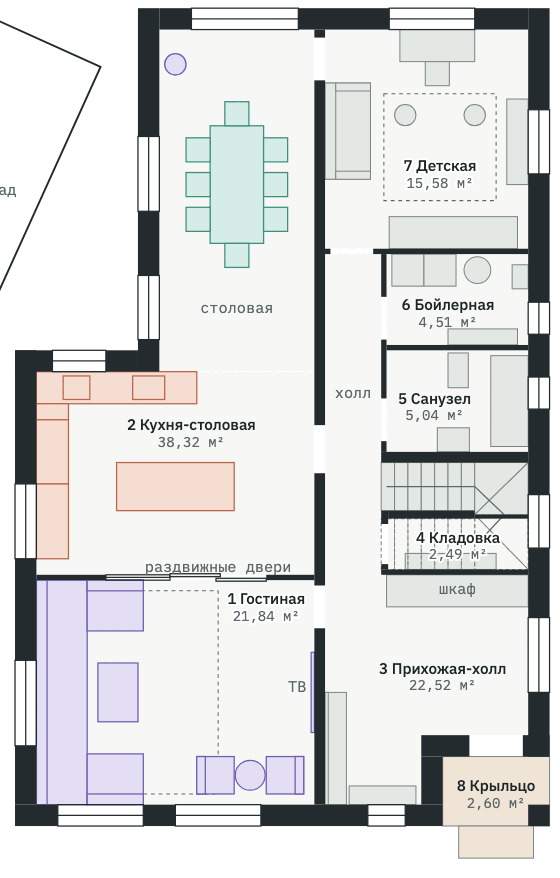
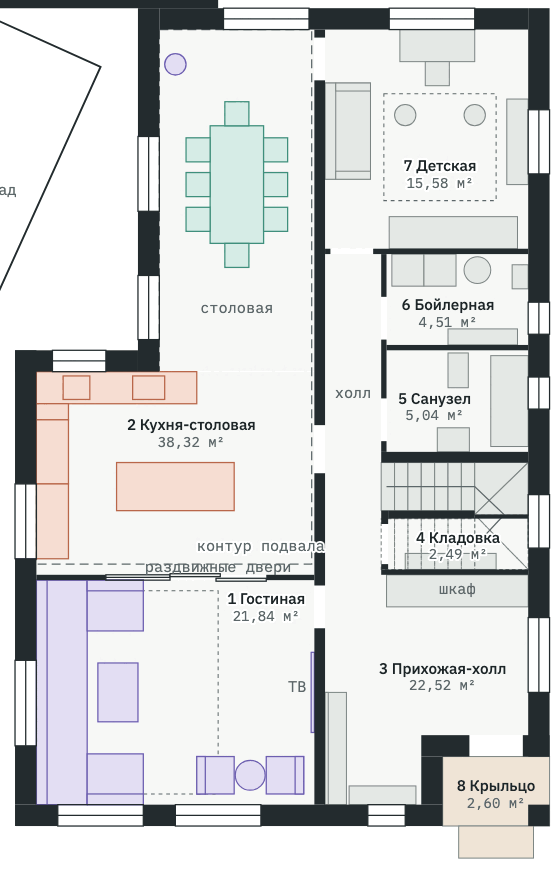
Variant 5: basement under the kitchen and dining room, entered from the garden
- L-shaped basement, 36.8 m2 inside, 2.4 m clear, floor at -2.750;
  400 mm walls flush with the house walls, 300 mm under the bearing wall.
- Stair pit along the back wall left of the garden door: 12 steps of
  200 x 270, landing and a steel door, 1 m railing, entered from the
  shed side; lawn and ground now have an opening over it.
- Garden door moved right and narrowed to 1.6 m, its pad moved too;
  sewer to the septic tank reroutes around the pit.
- Shelving, lights, 'Basement' and 'Pit' views, basement on the
  foundation plan and plan 1, concrete volumes and notes; thumbnail,
  index card and README updated.

Changed region(s): [[0.0, 0.0, 0.425, 0.0615], [0.3339, 0.615, 0.5768, 0.6458], [0.5161, 0.0, 0.5768, 0.0615]]

diff --git a/dom/v5-dvuskatnaya.html b/dom/v5-dvuskatnaya.html
@@ -85,7 +85,7 @@ tr.out td{color:var(--muted)}
 <svg width="0" height="0" style="position:absolute" aria-hidden="true" focusable="false"><defs><pattern id="hatch" width="9" height="9" patternUnits="userSpaceOnUse" patternTransform="rotate(35)"><path d="M0 0 L0 9 M0 0 L9 0" stroke="var(--f-stroke)" stroke-width="1"/></pattern></defs></svg>
 <header>
 <h1>Дом · вариант 5, вход справа, гостиная и кухня слева, двускатная крыша</h1>
-<div class="specs"><span>общая <b>≈ 222,7 м²</b></span><span>1 этаж <b>110,3 м²</b></span><span>2 этаж <b>112,4 м²</b></span><span>сзади <b>7,7 × 6,4 м</b></span><span>спереди <b>10,0 × 8,9 м</b></span><span>склад <b>5,5 × 5,6 м</b></span><span>длина <b>15,3 м</b></span><span>фундамент <b>плита 250 мм с рёбрами</b></span><span>крыша <b>двускатная, 30°</b>, конёк <b>≈ 8,2 м</b> от земли</span><span>2 этаж у наружных стен <b>1,5–2,3 м</b></span></div>
+<div class="specs"><span>общая <b>≈ 222,7 м²</b></span><span>1 этаж <b>110,3 м²</b></span><span>2 этаж <b>112,4 м²</b></span><span>подвал <b>36,8 м²</b></span><span>сзади <b>7,7 × 6,4 м</b></span><span>спереди <b>10,0 × 8,9 м</b></span><span>склад <b>5,5 × 5,6 м</b></span><span>длина <b>15,3 м</b></span><span>фундамент <b>плита 250 мм с рёбрами</b></span><span>крыша <b>двускатная, 30°</b>, конёк <b>≈ 8,2 м</b> от земли</span><span>2 этаж у наружных стен <b>1,5–2,3 м</b></span></div>
 </header>
 <div class="row">
 <div class="bar big" id="floors"><span class="lbl">Показать</span>
@@ -117,7 +117,7 @@ tr.out td{color:var(--muted)}
 <svg id="fplan" viewBox="-90 -110 850 1000" width="100%" role="img" style="min-width:540px"><title>План фундамента</title><desc>Монолитная плита 250 мм по контуру дома: сзади 7,7 м, спереди 10,0 м, длина 15,3 м, в правом переднем углу вырез под крыльцо. Рёбра под плитой показаны пунктиром, выпуски коммуникаций — кружками с кодами К, В, Э, З, выходы отопления — красными квадратиками О, трубы под плитой — цветным пунктиром, отдельные плиты крыльца и площадки у двери в сад, привязка к границе участков и переднему забору. Размеры в мм.</desc></svg>
 <svg id="fsec" viewBox="0 0 680 300" width="100%" role="img" style="min-width:540px;margin-top:6px"><title>Край плиты в разрезе</title><desc>Разрез по наружной стене: стена 400, плита 250, ребро 400 × 400, ЭППС 100, подушка 300, утеплённая отмостка, отметки от чистого пола.</desc></svg>
 </div>
-<svg id="plan1" viewBox="0 0 680 760" width="100%" role="img" style="min-width:540px" hidden><title>План первого этажа</title><desc>Первый этаж, вариант 5: спереди дом шириной 10 м. Вход справа: крыльцо в правом переднем углу под вторым этажом, за ним большая прихожая-холл. Слева от фасада назад гостиная, за перегородкой с раздвижными стеклянными дверями кухня с островом и в узкой задней части столовая с выходом в сад. Справа прихожая-холл без перегородок до лестницы, со шкафом, вешалкой и обувницей, дальше лестница с кладовкой, санузел, бойлерная и детская. Размеры в мм.</desc></svg>
+<svg id="plan1" viewBox="0 -40 680 800" width="100%" role="img" style="min-width:540px" hidden><title>План первого этажа</title><desc>Первый этаж, вариант 5: спереди дом шириной 10 м. Вход справа: крыльцо в правом переднем углу под вторым этажом, за ним большая прихожая-холл. Слева от фасада назад гостиная, за перегородкой с раздвижными стеклянными дверями кухня с островом и в узкой задней части столовая с выходом в сад. Пунктиром показан подвал под кухней и столовой, за задней стеной приямок со ступенями — вход в подвал. Справа прихожая-холл без перегородок до лестницы, со шкафом, вешалкой и обувницей, дальше лестница с кладовкой, санузел, бойлерная и детская. Размеры в мм.</desc></svg>
 <svg id="plan2" viewBox="0 0 680 760" width="100%" role="img" style="min-width:540px"><title>План второго этажа</title><desc>Второй этаж, вариант 5, полумансардный под двускатной крышей: мастер-спальня, гардеробная и санузел в задней части, Г-образная спальня, большой общий санузел, коридор с лестницей справа и две спальни спереди: слева на месте кабинета и балкона, справа. Пунктиром показаны окна в крыше. Размеры в мм.</desc></svg>
 </div>
 <div class="card">
@@ -129,7 +129,9 @@ tr.out td{color:var(--muted)}
 <tr><td>Р2</td><td>Ребро под несущей стеной вдоль дома 300 × 300, 14,5 м</td><td>1,3 м³</td></tr>
 <tr class="sum"><td></td><td>Бетон под дом</td><td>43,1 м³</td></tr>
 <tr class="out"><td>2</td><td>Плита крыльца 200 мм, через шов</td><td>0,6 м³</td></tr>
-<tr class="out"><td>3</td><td>Площадка у двери в сад 200 мм</td><td>0,6 м³</td></tr>
+<tr class="out"><td>3</td><td>Площадка у двери в сад 200 мм</td><td>0,4 м³</td></tr>
+<tr><td>4</td><td>Подвал: стены 400 мм и плита пола 200 мм</td><td>38,4 м³</td></tr>
+<tr><td>5</td><td>Приямок со ступенями</td><td>≈ 10 м³</td></tr>
 </table>
 <table id="tu" style="margin-top:14px"><caption>Выпуски из плиты · привязки в м от наружных граней</caption></table>
 <p class="hint" style="margin-top:10px">Серый пунктир на плане — рёбра под плитой, цветной — трубы в подушке под плитой, кружки — выпуски. Оранжевым канализация, синим вода, красным отопление, чёрным кабель, оливковым заземление. Отопление квадратиками: его трубы лежат не в бетоне, а поверх плиты в стяжке. Отметки в метрах от чистого пола 1 этажа. Сечения ориентировочные, армирование и точные размеры считает конструктор по геологии участка.</p>
@@ -174,7 +176,8 @@ tr.out td{color:var(--muted)}
 <li><b>Замеры с эскиза.</b> Пунктир на эскизе я понял как границу между участками …299 и …300. Склад 5,5 × 5,6 м. Его задний угол со стороны дома стоит в 10,4 м от границы, от этого места вдоль границы до переднего забора 18,7 м. От заднего угла участка вдоль левого забора до склада 10,6 м. По модели от переднего угла склада до границы выходит 12,7 м и до переднего забора 13,6 м, у вас 12,8 и 13,5. Расхождение 10 см, это в пределах точности рулетки. Верхняя строчка на фото обрезана, поэтому размер «до забора у эл. столба» я не увидел.</li>
 <li><b>Участки.</b> Новый дом стоит на участке …299. Правая стена в 2 м от границы с …300, это обязательный отступ. Фасад в 4,5 м от переднего забора. Выступ смотрит в дальний конец участка, вход к воротам. На участке …300 уже стоит двухэтажный дом 11 × 10 м в 2 м от границы и в 6 м от переднего забора. Я нарисовал его по фото. Крыша двускатная несимметричная, конёк идёт от фасада к заднему забору и сдвинут вправо, длинный пологий скат смотрит на новый дом. Карниз примерно на 5 м, конёк на 7,6 м, это оценка по фото. Считаю, что фасад с гаражом смотрит на передний забор. Пристройки сзади не рисовал. Снег с длинного ската будет сходить в двухметровую полосу у границы, так что на этот скат стоит поставить снегозадержатели. Между домами получается 4 м. Это меньше обычного противопожарного разрыва между домами на соседних участках (от 6 м), стоит проверить, как это решается для ваших двух участков. По замерам левый забор проходит на 0,6–0,9 м дальше, чем по кадастровым цифрам, поэтому торец с воротами на плане вышел ≈8,8 м вместо 8. Его лучше перемерить. Забор высотой 2 м идёт по всему внешнему периметру обоих участков, между ними забора нет. Ворота 4,5 м без верхней балки и калитка стоят в нижнем левом торце, от калитки к крыльцу ведёт дорожка.</li>
 <li><b>Фундамент — монолитная плита 250 мм</b> ровно по контуру дома, 135,7 м². Снизу рёбра: по контуру 400 × 400 мм под наружными стенами и одно ребро 300 × 300 мм под несущей стеной вдоль дома, 13,2 м. Остальные стены первого этажа — перегородки, отдельные рёбра под ними не нужны. Верх плиты на −0,100, на стяжку и пол остаётся 100 мм. Низ плиты на уровне земли, низ рёбер на −0,750. Под плитой ЭППС 100 мм и песчано-щебёночная подушка 300 мм, торец плиты утеплён, вокруг утеплённая отмостка. Бетона под дом уходит ≈43,1 м³. Крыльцо в правом переднем углу и площадка у двери в сад стоят на отдельных плитах 200 мм через шов, под угловой стойкой крыльца отдельная опора. Сечения ориентировочные: армирование и точные размеры считает конструктор по геологии участка.</li>
-<li><b>Выпуски коммуникаций из плиты.</b> Всё, что должно торчать из плиты после заливки, показано в режиме «Только фундамент» и на плане фундамента, коды и привязки — в таблице рядом. Канализация: К1 мойка на кухне, К2 стояк общего санузла второго этажа в кухонной колонне, К3 унитаз, К4 стояк мастер-санузла второго этажа, К5 раковина, К6 трап душа, К7 стиральная и сушильная машины, К8 трап в бойлерной. Трубы 110 и 50 мм прокладывают в подушке под утеплителем с уклоном 2 % для 110 и 3 % для 50 к общему выпуску КВ через заднюю стену, оттуда труба 110 идёт ≈ 10 м к септику за складом. Через рёбра трубы идут в гильзах, выпуски выводят на 150–200 мм выше плиты и заглушают. Септик квадратный, 2 × 2 м, стоит вплотную за складом у левого забора, стороны параллельны складу. До угла дома от него ≈ 3,8 м: для герметичного септика этого хватает, а если он с фильтрацией в грунт, обычно требуют от 5 м — это стоит уточнить у поставщика. В бойлерной у правой стены ввод воды В1 в гильзе ниже промерзания, вода приходит из-за дома на …300 — за его задней стеной и по полосе между домом и границей, гильза под кабель Э1 и выпуск заземления З1 от контура. Кабель приходит от щита учёта на переднем заборе у границы участков: в трубе ПНД на глубине 0,8 м под площадкой для машины и дальше по полосе между домом и границей к гильзе Э1, ≈ 16 м. С водой он пересекается на разной глубине. Точку, где вода подключается за домом на …300, надо уточнить до закладки. Газ к котлу заводят через стену выше земли. Отопление показано красным: коллектор ОК у котла, трубы PEX 16 к радиаторам под окнами первого этажа О1–О6, полотенцесушитель О7 и стояк на второй этаж О8. Эти трубы кладут не в бетон, а поверх плиты в стяжку, через несущую стену — только в дверных проёмах. Но выходы из пола надо знать до стяжки. Разводка ориентировочная, под радиаторы; если захотите тёплый пол, стяжка и утеплитель будут другими. Места выпусков сверить с сантехником: точность ±20 мм.</li>
+<li><b>Подвал под кухней и столовой</b> с входом из сада. Он повторяет контур кухни и столовой, внутри 36,8 м²: 2,85 × 10 м вдоль несущей стены и 2,3 × 3,6 м под кухней у склада. Высота 2,4 м, пол на −2,750 от пола первого этажа, это 2,4 м ниже земли. Стены монолитные 400 мм заподлицо с наружными стенами дома, справа 300 мм прямо под несущей стеной, пол — плита 200 мм. Снаружи обмазочная гидроизоляция и ЭППС, по периметру дренаж. Плита 250 над подвалом становится перекрытием, её армируют как перекрытие. Вход — приямок вдоль задней стены слева от двери в сад: 12 ступеней по 200 мм с проступью 270, внизу площадка перед металлической дверью 0,8 м. Спускаются со стороны склада. Вокруг приямка ограждение 1 м, над ним нужен навес, в полу трап — воду из него отводят в дренажный колодец или насосом. Чтобы приямок не мешал выходу в сад, дверь в сад сдвинута вправо и стала 1,6 м, площадка перед ней тоже. Канализация от кухни идёт под потолком подвала, труба к септику обходит приямок. Внутри вдоль стен стеллажи для заготовок, свет и приточно-вытяжная вентиляция через стену. Бетона на подвал ≈ 38 м³ и на приямок ≈ 10 м³, котлован ≈ 200–250 м³ грунта. Главное — грунтовые воды: до решения нужна геология или шурф на 3 м. Если вода выше дна подвала, его делают в полной гидроизоляции или от него отказываются.</li>
+<li><b>Выпуски коммуникаций из плиты.</b> Всё, что должно торчать из плиты после заливки, показано в режиме «Только фундамент» и на плане фундамента, коды и привязки — в таблице рядом. Канализация: К1 мойка на кухне, К2 стояк общего санузла второго этажа в кухонной колонне, К3 унитаз, К4 стояк мастер-санузла второго этажа, К5 раковина, К6 трап душа, К7 стиральная и сушильная машины, К8 трап в бойлерной. Трубы 110 и 50 мм прокладывают в подушке под утеплителем с уклоном 2 % для 110 и 3 % для 50 к общему выпуску КВ через заднюю стену, оттуда труба 110 идёт ≈ 11 м к септику за складом, в обход приямка. Через рёбра трубы идут в гильзах, выпуски выводят на 150–200 мм выше плиты и заглушают. Септик квадратный, 2 × 2 м, стоит вплотную за складом у левого забора, стороны параллельны складу. До угла дома от него ≈ 3,8 м: для герметичного септика этого хватает, а если он с фильтрацией в грунт, обычно требуют от 5 м — это стоит уточнить у поставщика. В бойлерной у правой стены ввод воды В1 в гильзе ниже промерзания, вода приходит из-за дома на …300 — за его задней стеной и по полосе между домом и границей, гильза под кабель Э1 и выпуск заземления З1 от контура. Кабель приходит от щита учёта на переднем заборе у границы участков: в трубе ПНД на глубине 0,8 м под площадкой для машины и дальше по полосе между домом и границей к гильзе Э1, ≈ 16 м. С водой он пересекается на разной глубине. Точку, где вода подключается за домом на …300, надо уточнить до закладки. Газ к котлу заводят через стену выше земли. Отопление показано красным: коллектор ОК у котла, трубы PEX 16 к радиаторам под окнами первого этажа О1–О6, полотенцесушитель О7 и стояк на второй этаж О8. Эти трубы кладут не в бетон, а поверх плиты в стяжку, через несущую стену — только в дверных проёмах. Но выходы из пола надо знать до стяжки. Разводка ориентировочная, под радиаторы; если захотите тёплый пол, стяжка и утеплитель будут другими. Места выпусков сверить с сантехником: точность ±20 мм.</li>
 <li><b>Mercedes Atego с кузовом 7 м</b> (вся машина около 9,3 м) заезжает вдоль переднего забора и проезжает вперёд до границы второго участка. До забора 0,5 м, до фасада около 1,5 м, проход к крыльцу остаётся. Чтобы грузовик заезжал прямо вдоль забора, ворота 4,5 м сдвинуты в самый угол торца, калитка дальше по торцу. Это работает, если с улицы он подъезжает примерно вдоль переднего забора. Площадка засыпана асфальтной крошкой. Кузов высотой около 3,3 м будет стоять напротив окон гостиной и тамбура на фасаде и затенять его.</li>
 <li><b>Склад 5,5 × 5,6 м</b> стоит стороной 5,6 м вплотную к левому забору, под углом ≈24° к дому. Склад обшит OSB. Дверь пластиковая прозрачная, у склада два окна 1 × 1 м: рядом с дверью слева и справа за углом. Через 1 м после склада вдоль забора в сторону ворот стоит вагончик-бытовка 8 × 2,4 м на блоках: обшит серым профлистом, по контуру синий профиль, крыша плоская чёрная. Дверь справа на длинной стороне к двору, окна только в торцах. Между углом склада и задней частью дома проход 0,7 м, от передней широкой части до склада тоже 0,7 м. Склад стоит на стальных сваях с зазором 40 см от земли. Корпус высотой 3 м со стороны дома и 2 м у забора, крыша со скатом к забору. Вход через обычную пластиковую дверь с крыльцом из трёх ступенек в торце со стороны входа в дом.</li>
 <li><b>Вариант 5.</b> Форма дома как в четвёртом: сзади 7,7 м по линии выступа, с 6,4 м от задней стены одна ступенька и дальше до фасада 10 м, до склада везде 0,7 м. Вход справа: крыльцо 2,0 × 1,3 м утоплено в правый передний угол под второй этаж, на углу стойка. Входная дверь смотрит на фасад, прямо напротив ступенек крыльца, и ведёт сразу в большую прихожую-холл. Слева вся ширина от фасада до сада отдана дневной зоне: спереди гостиная, за ней кухня, в конце дома, в узкой части шириной 2,9 м, столовая с выходом в сад. Справа прихожая-холл с лестницей, санузел, бойлерная и детская. Крыша двускатная с коньком над несущей стеной, второй этаж полумансардный.</li>
@@ -199,7 +202,7 @@ window.HOUSE={FL2:3060,H1:2800,H2:2700,
 walls1:[
  {o:'v',a0:-400,a1:6400,c0:300,c1:700,ops:[{f:2000,t:3400,s:900,h:2700,k:'w'},{f:4600,t:5800,s:800,h:2600,k:'w'}]},
  {o:'h',a0:-2000,a1:300,c0:6000,c1:6400,ops:[{f:-1300,t:-300,s:1050,h:2300,k:'w'}]},
- {o:'h',a0:700,a1:7600,c0:-400,c1:0,ops:[{f:1300,t:3300,s:0,h:2400,k:'g'},{f:5000,t:6600,s:800,h:2600,k:'w'}]},
+ {o:'h',a0:700,a1:7600,c0:-400,c1:0,ops:[{f:1900,t:3500,s:0,h:2400,k:'g'},{f:5000,t:6600,s:800,h:2600,k:'w'}]},
  {o:'v',a0:-400,a1:13600,c0:7600,c1:8000,ops:[{f:1500,t:2700,s:800,h:2600,k:'w'},{f:5100,t:5700,s:1200,h:2000,k:'w'},{f:6500,t:7100,s:1400,h:2100,k:'w'},{f:8700,t:9700,s:1600,h:2800,k:'w'},{f:11000,t:12400,s:800,h:2600,k:'w'}]},
  {o:'v',a0:14500,a1:14900,c0:7600,c1:8000,ops:[]},
  {o:'v',a0:6000,a1:14500,c0:-2000,c1:-1600,ops:[{f:8500,t:9900,s:1050,h:2300,k:'w'},{f:11800,t:13400,s:900,h:2600,k:'w'}]},
@@ -283,7 +286,11 @@ ROOF:{ridge:3700,knee:2100}
   ribs:[[300,-400,7700,400,400],[7600,0,400,13600,400],[6000,13200,2000,400,400],[5600,13600,400,1300,400],
    [-2000,14500,7600,400,400],[-2000,6000,400,8500,400],[-1600,6000,1900,400,400],[300,0,400,6400,400],
    [3550,0,300,14500,300]],
-  porch:[[6000,13620,2000,1280,200],[6300,14900,1400,600,100],[1100,-1600,2400,1180,200]],
+  porch:[[6000,13620,2000,1280,200],[6300,14900,1400,600,100],[1850,-1600,1750,1180,200]],
+  /* подвал под кухней и столовой: пол −2,750, стены 400 по контуру дома (справа 300 под несущей стеной); приямок вдоль задней стены слева от двери в сад */
+  base:{floor:-2750,door:[750,1550],area:36.78,
+   out:[[300,-400],[3850,-400],[3850,10300],[-2000,10300],[-2000,6000],[300,6000]],inn:[[700,0],[3550,0],[3550,10000],[-1600,10000],[-1600,6400],[700,6400]],
+   pit:{x0:-2470,x1:1800,land:700,out:[[-2470,-1700],[1800,-1700],[1800,-400],[-2470,-400]],inn:[[-2470,-1500],[1600,-1500],[1600,-600],[-2470,-600]]}},
   /* выпуски из плиты: [код, вид, x, y, Ø мм, что, подпись: r/l/u] — к: канализация, в: вода, э: кабель, з: заземление */
   util:[['К1','k',-850,6700,50,'Мойка и посудомойка на кухне','u'],['К2','k',-1450,8350,110,'Стояк общего санузла 2 этажа, в кухонной колонне','r'],
    ['К3','k',6290,6250,110,'Унитаз, санузел 1 этажа','l'],['К4','k',6700,6100,110,'Стояк мастер-санузла 2 этажа, в коробе','u'],
@@ -299,7 +306,7 @@ ROOF:{ridge:3700,knee:2100}
     ['О7',5050,7000,16,'Полотенцесушитель в санузле','u'],['О8',5050,5800,20,'Стояк отопления на 2 этаж, в гардеробную','r'],['ОК',6800,5450,25,'Коллектор отопления у котла','u']],
    lines:[[[6800,5450],[5800,5450],[5800,300]],[[5800,550],[800,550],[800,5200]],[[6800,5450],[4400,5450],[4400,10800],[3000,10800],[3000,14350],[-400,14350]],
     [[4400,11700],[7450,11700]],[[4400,7000],[5050,7000]],[[6800,5450],[6800,5800],[5050,5800]]]},
-  exit:[5200,-400],sept:SEP,septPts:SEPP,outSewer:[[5200,-400],[5200,-1500],SEP],waterIn:[[16500,1800],[9000,1800],[9000,5450]],
+  exit:[5200,-400],sept:SEP,septPts:SEPP,outSewer:[[5200,-400],[5200,-2300],SEP],waterIn:[[16500,1800],[9000,1800],[9000,5450]],
   /* кабель от щита учёта на переднем заборе у границы участков, в трубе ПНД под площадкой и вдоль правой стены */
   cableIn:[[9700,19250],[9400,18950],[9400,5100]],meter:[9700,19250],
   feeds:[['w',[9000,5450],[7450,5450],-1200],['e',[9400,5100],[7450,5100],-800],['z',[8600,4750],[7450,4750],-700]]};
@@ -341,7 +348,7 @@ function drawPlan(svg,P){
  const ln={stroke:'var(--muted)','stroke-width':0.6};
  function dimH(x1,x2,py,s,ly){el('line',Object.assign({x1:X(x1),x2:X(x2),y1:py,y2:py},ln));[x1,x2].forEach(x=>el('line',Object.assign({x1:X(x),x2:X(x),y1:py-4,y2:py+4},ln)));T((X(x1)+X(x2))/2,ly,s,'ts');}
  function dimV(y1,y2,px,s){el('line',Object.assign({x1:px,x2:px,y1:Y(y1),y2:Y(y2)},ln));[y1,y2].forEach(y=>el('line',Object.assign({x1:px-4,x2:px+4,y1:Y(y),y2:Y(y)},ln)));T(px+7,(Y(y1)+Y(y2))/2+4,s,'ts','start');}
- dimH(-2000,300,22,'2300',16);dimH(300,8000,22,'7700',16);
+ const dy=P.dimY||0;dimH(-2000,300,22+dy,'2300',16+dy);dimH(300,8000,22+dy,'7700',16+dy);
  dimV(-400,6000,515,'6400');dimV(6000,14900,515,'8900');dimV(-400,14900,575,'15300');
  dimH(-2000,8000,735,'10000',750);
 }
@@ -353,7 +360,9 @@ const stairTreads=(g,R,solid2)=>{
 const winders=(el,PT,g,up)=>{const C=[6600,9075];[[[6600,8100],[7600,8100]],[[7600,8100],[7600,9075]],[[7600,9075],[7600,10100]],[[7600,10100],[6600,10100]]].forEach((w,i)=>el('polygon',Object.assign({points:PT([C,w[0],w[1]])},i>1&&up?up:{}),i>1&&up?null:g));};
 drawPlan(document.getElementById('plan1'),{
  walls:HS.walls1,floors:HS.floors1,
- polys:[{pts:HS.SKLAD.pts,a:{fill:'url(#hatch)',stroke:'var(--wall)','stroke-width':1.5}}],
+ polys:[{pts:HS.SKLAD.pts,a:{fill:'url(#hatch)',stroke:'var(--wall)','stroke-width':1.5}},{pts:HS.FUND.base.inn,a:{fill:'none',stroke:'var(--muted)','stroke-width':1,'stroke-dasharray':'7 4'}},
+  {pts:HS.FUND.base.pit.out,a:{fill:'var(--wall)'}},{pts:HS.FUND.base.pit.inn,a:{fill:'var(--floor)'}}],
+ dimY:-50,rails:Array.from({length:12},(_,i)=>{const x=700-270*i;return [x,-1500,x,-600];}),
  deck:[[6000,13600,2000,1300],[6300,14900,1400,600]],
  dash:[[-1500,10500,3300,3800],[4900,1200,2100,2000]],
  items:[
@@ -373,7 +382,7 @@ drawPlan(document.getElementById('plan1'),{
  labels:[['1 Гостиная','21,84',2700,10750,'middle',1],['2 Кухня-столовая','38,32',1300,7500],['3 Прихожая-холл','22,52',6000,12050],
   ['4 Кладовка','2,49',6290,9600,'middle',1],['5 Санузел','5,04',5850,7000],['6 Бойлерная','4,51',6100,5250],['7 Детская','15,58',5950,2650,'middle',1],
   ['8 Крыльцо','2,60',7000,14250]],
- notes:[['склад',-2400,3100,'middle'],['раздвижные двери',1800,10140,'middle'],['холл',4325,6900,'middle'],['шкаф',6275,10560,'middle'],['ТВ',3450,12400,'end'],['столовая',2150,5300,'middle']]
+ notes:[['склад',-2400,3100,'middle'],['приямок, вход в подвал',-400,-990,'middle',1],['контур подвала',2600,9750,'middle',1],['раздвижные двери',1800,10140,'middle'],['холл',4325,6900,'middle'],['шкаф',6275,10560,'middle'],['ТВ',3450,12400,'end'],['столовая',2150,5300,'middle']]
 });
 (function site(){
  /* план участков в ориентации эскиза: задний забор сверху, граница с …300 справа от дома */
@@ -467,7 +476,7 @@ drawPlan(document.getElementById('plan1'),{
   ['Участки',[['Задний забор …299',f1(XB-PL.P1[0]),'расчёт'],['Левый забор',f1(10600+LF),'расчёт'],['Торец с воротами',f1(hy(PL.P4,PL.P5)),'перемерить'],
    ['Передний забор …299',f1(hy(PL.D2,PL.P4)),'кадастр'],['Граница …299 / …300',f1(YF-PL.P1[1]),'расчёт'],['Задний забор …300',f1(hy(PL.D1,PL.P2)),'кадастр'],
    ['Правый забор …300',f1(hy(PL.P2,PL.P3)),'расчёт'],['Передний забор …300',f1(hy(PL.P3,PL.D2)),'кадастр']]],
-  ['Постройки',[['Новый дом','10,0 × 15,3','проект'],['Задняя часть дома','7,7 × 6,4','проект'],['Площадка у двери в сад','2,4 × 1,2','проект'],['Крыльцо','2,0 × 1,3','проект'],
+  ['Постройки',[['Новый дом','10,0 × 15,3','проект'],['Задняя часть дома','7,7 × 6,4','проект'],['Площадка у двери в сад','1,75 × 1,2','проект'],['Приямок входа в подвал','4,3 × 1,3','проект'],['Крыльцо','2,0 × 1,3','проект'],
    ['Склад',f1(K.W)+' × '+f1(K.L),'замер'],['Вагончик','8,0 × 2,4','проект'],['Дом на …300, 2 этажа','11 × 10','замер']]],
   ['Новый дом — привязка',[['До границы с …300',f1(XB-8000),'от вас'],['До переднего забора',f1(YF-14900),'проект'],['До заднего забора',f1(-400-PL.P1[1]),'расчёт'],
    ['До дома на …300',f1(O[0]-8000),'расчёт'],['Септик 2 × 2 м — угол дома',f1(Math.min(...FD.septPts.map(q=>Math.hypot(q[0]-300,q[1]+400)))),'расчёт'],['Септик — склад','вплотную','от вас'],['Задняя часть — угол склада',f1(300-TE[0]),'расчёт'],['Широкая часть — склад','0,7','от вас']]],
@@ -518,8 +527,12 @@ drawPlan(document.getElementById('plan2'),{
  T(X(4000),Y(PL.YF)-7,'передний забор','ts');
  /* склад — для привязки септика */
  el('polygon',{points:PT(HS.SKLAD.pts),fill:'url(#hatch)',stroke:'var(--wall)','stroke-width':1.2});T(X(-4300),Y(1900),'склад','ts halo');
+ /* подвал: стены кольцом, пол ниже; приямок со ступенями */
+ {const Bs=F.base;el('polygon',{points:PT(Bs.out),fill:'var(--rib)',stroke:'var(--wall)','stroke-width':1});el('polygon',{points:PT(Bs.inn),fill:'var(--sand)',stroke:'var(--wall)','stroke-width':1});
+  el('polygon',{points:PT(Bs.pit.out),fill:'var(--rib)',stroke:'var(--wall)','stroke-width':1});el('polygon',{points:PT(Bs.pit.inn),fill:'var(--sand)',stroke:'var(--wall)','stroke-width':1});
+  for(let i=0;i<12;i++){const x=700-270*i;el('line',{x1:X(x),x2:X(x),y1:Y(-1500),y2:Y(-600),stroke:'var(--wall)','stroke-width':0.6});}}
  /* плита, рёбра под ней пунктиром, отдельная плита крыльца */
- el('polygon',{points:PT(F.contour),fill:'var(--conc)',stroke:'var(--wall)','stroke-width':1.6});
+ el('polygon',{points:PT(F.contour),fill:'var(--conc)',stroke:'var(--wall)','stroke-width':1.6,'fill-opacity':0.82});
  F.ribs.forEach(r=>R(r[0],r[1],r[2],r[3],{fill:'var(--rib)',stroke:'var(--wall)','stroke-width':0.7,'stroke-dasharray':'4 2'}));
  F.porch.forEach(r=>R(r[0],r[1],r[2],r[3],{fill:'var(--conc)',stroke:'var(--wall)','stroke-width':1}));
  /* коммуникации: трубы под плитой пунктиром, выпуски кружками с кодами */
@@ -541,14 +554,14 @@ drawPlan(document.getElementById('plan2'),{
  inL('o',()=>F.heat.pts.forEach(h=>{const px=X(h[1]),py=Y(h[2]);el('rect',{x:px-3.5,y:py-3.5,width:7,height:7,fill:UC.o,stroke:'var(--surface)','stroke-width':1});
   const o=h[5]==='l'?[-7,4,'end']:h[5]==='u'?[0,-8,'middle']:[7,4,'start'];T(px+o[0],py+o[1],h[0],'ts halo',o[2],UC.o).style.fontWeight='600';}));
  {const tb=document.getElementById('tu'),f1=v=>(v/1000).toFixed(2).replace('.',','),side=x=>x<3700?'от левой '+f1(x-(-2000)):'от правой '+f1(8000-x);
-  F.util.concat([['КВ','k',F.exit[0],-400,110,'Выпуск канализации через заднюю стену в гильзе, дальше ≈ '+(1.1+Math.hypot(F.sept[0]-5200,F.sept[1]+1500)/1000).toFixed(1).replace('.',',')+' м к септику']]).forEach(u=>{const tr=tb.insertRow();
+  F.util.concat([['КВ','k',F.exit[0],-400,110,'Выпуск канализации через заднюю стену в гильзе, дальше ≈ '+(1.9+Math.hypot(F.sept[0]-5200,F.sept[1]+2300)/1000).toFixed(1).replace('.',',')+' м к септику']]).forEach(u=>{const tr=tb.insertRow();
    tr.insertCell().textContent=u[0];tr.cells[0].style.color=UC[u[1]]==='var(--ink)'?'':UC[u[1]];
    tr.insertCell().textContent=u[5]+' · '+side(u[2])+(u[0]==='КВ'?'':', от задней '+f1(u[3]+400));tr.insertCell().textContent=u[4]?'Ø'+u[4]:'—';});
   F.heat.pts.forEach(h=>{const tr=tb.insertRow();tr.insertCell().textContent=h[0];tr.cells[0].style.color=UC.o;
    tr.insertCell().textContent=h[4]+', в стяжке · '+side(h[1])+', от задней '+f1(h[2]+400);tr.insertCell().textContent='Ø'+h[3];});}
  T(X(5700),Y(9500),'Монолитная плита 250 мм','rn');T(X(5700),Y(9500)+14,'135,7 м² · верх −0,100','ra');
  T(X(7450),Y(2000)+4,'Р1 400 × 400','ts','end');T(X(3500),Y(3000),'Р2 300 × 300','ts','end');
- T(X(7000),Y(14150),'Крыльцо','rn');T(X(2300),Y(-1010),'Площадка в сад','rn');T(X(2300),Y(-1010)+13,'плита 200','ra');T(X(7000),Y(14150)+13,'плита 200','ra');
+ T(X(7000),Y(14150),'Крыльцо','rn');T(X(2725),Y(-1010),'Площадка в сад','rn');T(X(2725),Y(-1010)+13,'плита 200','ra');T(X(-430),Y(-1050)+4,'приямок, вход в подвал','ts halo');T(X(1300),Y(9300),'Подвал 36,8 м² · пол −2,750','ts halo');T(X(7000),Y(14150)+13,'плита 200','ra');
  /* размеры */
  dH(-2000,300,-40,'2300');dH(300,8000,-40,'7700');
  const pb=Y(15500)+26;dH(-2000,6000,pb,'8000');dH(6000,8000,pb,'2000');dH(-2000,8000,pb+24,'10000');
@@ -593,9 +606,9 @@ drawPlan(document.getElementById('plan2'),{
 const HS=window.HOUSE;
 const msg=document.getElementById('msg');
 const state={floor:2,tab:'v3',view:'front',cut:false,roof:true,truck:true,lay:{k:true,w:true,o:true,e:true,z:true}};
-const VIEWS={1:[['all','Общий вид'],['top','Сверху'],['front','Со стороны входа'],['entry','Крыльцо'],['nw','Со стороны склада'],['site','Участок и склад'],['truck','Ворота и Атего'],['old','Дом на …300'],['dining','Столовая'],['living','Гостиная'],['kitchen','Кухня'],['corridor','Холл'],['stair','Лестница'],['stairtop','Лестница сверху'],['bedroom','Детская'],['priem','Прихожая'],['priemtop','Прихожая сверху'],['boiler','Бойлерная'],['glass','Перегородка']],
+const VIEWS={1:[['all','Общий вид'],['top','Сверху'],['front','Со стороны входа'],['entry','Крыльцо'],['nw','Со стороны склада'],['site','Участок и склад'],['truck','Ворота и Атего'],['old','Дом на …300'],['dining','Столовая'],['living','Гостиная'],['kitchen','Кухня'],['corridor','Холл'],['stair','Лестница'],['stairtop','Лестница сверху'],['bedroom','Детская'],['priem','Прихожая'],['priemtop','Прихожая сверху'],['boiler','Бойлерная'],['glass','Перегородка'],['pit','Вход в подвал'],['basement','Подвал']],
  2:[['front','Со стороны входа'],['entry','Крыльцо'],['nw','Со стороны склада'],['site','Участок и склад'],['truck','Ворота и Атего'],['old','Дом на …300'],['all2','Общий вид'],['top2','Сверху'],['master','Мастер-спальня'],['lounge','Мастер: зона отдыха'],['closet','Гардеробная'],['nwbed','Спальня у склада'],['swbed','Спальня справа спереди'],['corridor2','Коридор и лестница'],['cabinet','Спальня слева спереди']],
- 0:[['fall','Общий вид'],['ftop','Сверху'],['ffront','Со стороны входа'],['fnw','Со стороны склада'],['fbelow','Снизу, рёбра'],['futil','Выпуски крупно']]};
+ 0:[['fall','Общий вид'],['ftop','Сверху'],['ffront','Со стороны входа'],['fnw','Со стороны склада'],['fbelow','Снизу, рёбра'],['futil','Выпуски крупно'],['pit','Приямок'],['basement','Подвал внутри']]};
 const viewsBar=document.getElementById('views'),hint=document.getElementById('hint');
 let api=null;
 function renderViews(){
@@ -661,7 +674,8 @@ function B(x,y,w,d,z,h,c,parent,o){if(w<=0||d<=0||h<=0)return null;
  me.position.set(mm(x+w/2),mm(z+h/2),mm(y+d/2));me.castShadow=true;me.receiveShadow=true;(parent||G).add(me);return me;}
 function Gl(x,y,w,d,z,h,parent){const m=B(x,y,w,d,z,h,null,parent,glass);if(m)m.castShadow=false;return m;}
 function Cyl(x,y,r,z,h,c){const me=new THREE.Mesh(new THREE.CylinderGeometry(mm(r),mm(r),mm(h),24),mat(c));me.position.set(mm(x),mm(z+h/2),mm(y));me.castShadow=true;me.receiveShadow=true;G.add(me);return me;}
-const gnd=new THREE.Mesh(new THREE.PlaneGeometry(90,90),mat('#cfcabd'));gnd.rotation.x=-Math.PI/2;gnd.position.set(6.5,-0.351,6);gnd.receiveShadow=true;scene.add(gnd);
+const gnd=new THREE.Mesh((()=>{const sh=new THREE.Shape();[[-38.5,-39],[51.5,-39],[51.5,51],[-38.5,51]].forEach((q,i)=>i?sh.lineTo(q[0],-q[1]):sh.moveTo(q[0],-q[1]));
+ const pa=new THREE.Path();HS.FUND.base.pit.out.forEach((q,i)=>i?pa.lineTo(mm(q[0]),-mm(q[1])):pa.moveTo(mm(q[0]),-mm(q[1])));sh.holes.push(pa);const g=new THREE.ShapeGeometry(sh);g.rotateX(-Math.PI/2);return g;})(),mat('#cfcabd'));gnd.position.set(0,-0.351,0);gnd.receiveShadow=true;scene.add(gnd);
 const deck='#b08d68',beam='#7d5f43',front='#ece8e1',top='#3a3a3a',light='#d9d2c7',dark='#8b6a4b',slabC='#d8d4cc',mirror='#cfe0e8',white='#fafafa';
 const FLC={w:'#caa982',t:'#e2dfd8',b:'#d3dcdf'};
 /* ---------- фундамент: монолитная плита с рёбрами, плиты крыльца и площадки в сад ---------- */
@@ -670,6 +684,30 @@ const concM=new THREE.MeshStandardMaterial({color:'#b3b0a9',roughness:0.95});
 slab(FD.contour,FD.top-FD.t,FD.t,concM,fundG);
 FD.ribs.forEach(r=>B(r[0],r[1],r[2],r[3],FD.top-FD.t-r[4],r[4],'#9d9a93',fundG));
 FD.porch.forEach(r=>B(r[0],r[1],r[2],r[3],-370,r[4],null,fundG,concM));
+/* ---------- подвал под кухней и столовой, вход из сада через приямок ---------- */
+{const BG=new THREE.Group();fundG.add(BG);const P=FD.base,wc='#a9a69f',Z0=P.floor,ZT=FD.top-FD.t;
+ const BB=(x,y,w,d,z,h,c)=>B(x,y,w,d,z,h,c||wc,BG);
+ slab(P.out,Z0-200,200,'#9d9a93',BG);slab(P.inn,Z0,10,'#c9c5bc',BG);
+ /* стены 400 заподлицо с наружными стенами дома, справа 300 под несущей стеной; дверь в задней стене */
+ const H=ZT-(Z0-200),zb=Z0-200,D=P.door;
+ BB(300,-400,D[0]-300,400,zb,H);BB(D[1],-400,3850-D[1],400,zb,H);BB(D[0],-400,D[1]-D[0],400,Z0+2000,ZT-Z0-2000);
+ BB(3550,0,300,10300,zb,H);BB(-2000,10000,5550,300,zb,H);BB(-2000,6000,400,4000,zb,H);BB(-2000,6000,2700,400,zb,H);BB(300,0,400,6000,zb,H);
+ /* приямок: пол, подпорные стенки выше земли на 150, ступени 200 × 270, площадка у двери */
+ const Q=P.pit,top=-200;slab(Q.out,Z0-200,200,'#9d9a93',BG);
+ BB(Q.x0,-1700,Q.x1-Q.x0,200,zb,top-zb);BB(Q.x0,-600,D[0]-Q.x0,200,zb,top-zb);BB(D[1],-600,Q.x1-D[1],200,zb,top-zb);BB(D[0],-600,D[1]-D[0],200,Z0+2000,top-Z0-2000);
+ BB(Q.x1-200,-1500,200,900,zb,top-zb);
+ for(let i=1;i<=12;i++)BB(Q.land-270*i,-1500,270,900,Z0,Math.min(200*i,-350-Z0),'#b8b4ab');
+ BB(D[0]+20,-520,D[1]-D[0]-40,40,Z0,2000,'#4a4f55');BB(D[1]-140,-560,20,40,Z0+950,120,'#c9ccce');
+ B(Q.land+300,-1150,300,300,Z0,12,'#555',BG);
+ /* ограждение 1 м по краю, вход сверху со стороны склада */
+ const rC='#5a5f64',rh=-350+1050;[[[Q.x0+100,-1600],[Q.x1-100,-1600]],[[Q.x0+100,-500],[Q.x1-100,-500]],[[Q.x1-100,-1600],[Q.x1-100,-500]]].forEach(([a,b])=>{bar(a,b,40,rh-40,40,rC,BG);
+  const L=Math.hypot(b[0]-a[0],b[1]-a[1]),n=Math.max(1,Math.round(L/1200));for(let k=0;k<=n;k++){const t=k/n;B(a[0]+(b[0]-a[0])*t-20,a[1]+(b[1]-a[1])*t-20,40,40,top,rh-top,rC,BG);}});
+ /* стеллажи для заготовок и свет */
+ const shelf=(x,y,w,d)=>{[0,450,900,1350,1800].forEach(z=>B(x,y,w,d,Z0+z,25,'#c9a877',BG));[[x,y],[x+w-40,y],[x,y+d-40],[x+w-40,y+d-40]].forEach(q=>B(q[0],q[1],40,40,Z0,1830,'#8a6e4a',BG));
+  const cs=['#b4432f','#d9a43a','#6f8f3a','#8a3f5a'];for(let k=0;k<Math.floor((w>d?w:d)/260);k++)[1,2,3].forEach(j=>{const c=cs[(k+j)%4],px=w>d?x+80+k*260:x+60,py=w>d?y+60:y+80+k*260;B(px,py,160,160,Z0+j*450+25,220,c,BG);});};
+ shelf(700,600,400,5400);shelf(3150,600,400,9000);shelf(-1600,6800,400,2800);
+ const bl=new THREE.MeshStandardMaterial({color:'#fff3da',emissive:'#ffd98a',emissiveIntensity:0.9});
+ [[2100,2500],[2100,7600],[-500,8200]].forEach(([x,y])=>{const s=new THREE.Mesh(new THREE.SphereGeometry(0.09,16,12),bl);s.position.set(mm(x),mm(ZT-150),mm(y));BG.add(s);});}
 const f1=new THREE.Group(),f2=new THREE.Group();f2.position.y=mm(HS.FL2);scene.add(f1);scene.add(f2);
 function buildWalls(list,Hc0,parent,top){
  const grp=new THREE.Group();parent.add(grp);
@@ -791,7 +829,8 @@ const WC=[6600,9075];
 wedge([WC,[6600,8100],[7600,8100]],0,8*RISE);wedge([WC,[7600,8100],[7600,9075]],0,9*RISE);
 wedge([WC,[7600,9075],[7600,10100]],10*RISE-SL,SL);wedge([WC,[7600,10100],[6600,10100]],11*RISE-SL,SL);
 for(let k=12;k<=18;k++){const j=k-12;B(6600-(j+1)*250,9150,250,950,k*RISE-SL,SL,stairC);}
-function slab(pts,z0,h,c,parent){const sh=new THREE.Shape();pts.forEach((p,i)=>{const px=mm(p[0]),pz=-mm(p[1]);i?sh.lineTo(px,pz):sh.moveTo(px,pz);});
+function slab(pts,z0,h,c,parent,holes){const sh=new THREE.Shape();pts.forEach((p,i)=>{const px=mm(p[0]),pz=-mm(p[1]);i?sh.lineTo(px,pz):sh.moveTo(px,pz);});
+ (holes||[]).forEach(hp=>{const pa=new THREE.Path();hp.forEach((p,i)=>{const px=mm(p[0]),pz=-mm(p[1]);i?pa.lineTo(px,pz):pa.moveTo(px,pz);});sh.holes.push(pa);});
  const g=new THREE.ExtrudeGeometry(sh,{depth:mm(h),bevelEnabled:false});g.rotateX(-Math.PI/2);
  const me=new THREE.Mesh(g,c&&c.isMaterial?c:mat(c));me.position.y=mm(z0);me.castShadow=true;me.receiveShadow=true;(parent||G).add(me);return me;}
 function bar(p1,p2,wd,z,h,c,parent){const dx=p2[0]-p1[0],dy=p2[1]-p1[1],L=Math.hypot(dx,dy);
@@ -862,7 +901,7 @@ function roofVis(){roofGrp.visible=state.floor===2&&state.roof&&!state.cut;}
 /* ---------- участки, забор, ворота ---------- */
 {
  const PL=HS.PLOT,fenceC='#8f9499',postC='#5a5f64';
- slab(PL.p299,-350,6,'#a9bd92',scene);slab(PL.p300,-350,4,'#b6c7a2',scene);
+ slab(PL.p299,-350,6,'#a9bd92',scene,[FD.base.pit.out]);slab(PL.p300,-350,4,'#b6c7a2',scene);
  slab(PL.path,-344,14,'#c9c2b6',scene);
  const pt=(p,q,d)=>{const L=Math.hypot(q[0]-p[0],q[1]-p[1]);return [p[0]+(q[0]-p[0])*d/L,p[1]+(q[1]-p[1])*d/L];};
  const run=(p,q,d0,d1,h,c,wd)=>bar(pt(p,q,d0),pt(p,q,d1),wd||40,-350,h,c,scene);
@@ -1024,7 +1063,7 @@ function setView(e,t,m){mode=m;
 const E=3.06+1.6;
 const PLg=HS.PLOT,Gt=PLg.G,Nt=PLg.n;
 const V={entry:[[6.95,1.75,16.3],[6.95,1.25,13.3],'orbit',true],truck:[[-12,8,29],[3,1.5,17],'orbit',true],all:[[-3,20,-1],[3.8,0,7.2],'orbit'],top:[[3.8,27,7.6],[3.8,0,7.2],'orbit'],front:[[9,8,27],[3.5,3,8],'orbit',true],nw:[[-11,8,-9],[4,3,5],'orbit',true],site:[[-1,44,24],[7.5,0,4.5],'orbit',true],old:[[8.5,4.5,24],[16.5,3,9.5],'orbit',true],
- fall:[[14,11,20],[3.8,-0.6,6.8],'orbit'],ftop:[[3.4,28,4.6],[3.4,-0.5,4.2],'orbit'],ffront:[[11,5,25],[3.8,-0.5,7.5],'orbit'],fnw:[[-10,5,-7],[3.8,-0.5,6],'orbit'],fbelow:[[-5,-8,21],[3.8,-0.5,7.2],'orbit'],futil:[[11,4.5,11.5],[4.6,-0.3,6.0],'orbit'],
+ fall:[[14,11,20],[3.8,-0.6,6.8],'orbit'],ftop:[[3.4,28,4.6],[3.4,-0.5,4.2],'orbit'],ffront:[[11,5,25],[3.8,-0.5,7.5],'orbit'],fnw:[[-10,5,-7],[3.8,-0.5,6],'orbit'],fbelow:[[-5,-8,21],[3.8,-0.5,7.2],'orbit'],futil:[[11,4.5,11.5],[4.6,-0.3,6.0],'orbit'],pit:[[-4.2,3.4,-5.6],[-0.4,-1.6,-1.0],'orbit'],basement:[[2.3,-1.1,9.7],[1.6,-1.9,1.6],'look'],
  dining:[[3.1,1.6,6.6],[1.9,0.8,1.0],'look'],living:[[3.2,1.6,10.8],[-0.8,0.6,13.0],'look'],kitchen:[[3.0,1.6,9.9],[-1.0,0.9,6.8],'look'],
  corridor:[[4.3,1.6,12.8],[4.3,1.3,5.5],'look'],stair:[[4.0,1.6,8.55],[7.6,1.9,8.9],'look'],stairtop:[[4.4,4.6,11.2],[6.2,0.9,9.1],'orbit'],
  bedroom:[[7.3,1.6,3.5],[4.3,0.7,1.8],'look'],priem:[[7.0,1.6,13.1],[4.6,1.0,10.9],'look'],priemtop:[[5.7,10.5,15.6],[5.7,0.3,11.9],'orbit'],boiler:[[5.2,1.6,5.6],[7.4,1.1,4.4],'look'],glass:[[2.6,1.6,13.8],[0.7,1.2,10.2],'look'],

diff --git a/index.html b/index.html
@@ -82,7 +82,7 @@ h2{font-size:18px;font-weight:600;margin:0}
 <div class="body">
 <span class="tag">ВАРИАНТ 5</span>
 <h2>10 м спереди, двускатная крыша</h2>
-<p>Вход с крыльцом справа в большую прихожую без перегородок, со шкафом, вешалкой и обувницей. Слева гостиная 21,8 м² у фасада, за раздвижными стеклянными дверями кухня 5,2 × 3,8 м с островом и в узкой задней части столовая с выходом в сад. Спальня на первом этаже стала детской с раскладным диванчиком и дверью из столовой, наверху вместо кабинета и балкона спальня 22 м². Конёк над несущей стеной, второй этаж полумансардный.</p>
+<p>Вход с крыльцом справа в большую прихожую без перегородок, со шкафом, вешалкой и обувницей. Слева гостиная 21,8 м² у фасада, за раздвижными стеклянными дверями кухня 5,2 × 3,8 м с островом и в узкой задней части столовая с выходом в сад. Спальня на первом этаже стала детской с раскладным диванчиком и дверью из столовой, наверху вместо кабинета и балкона спальня 22 м². Под кухней и столовой подвал 36,8 м² с входом из сада через приямок. Конёк над несущей стеной, второй этаж полумансардный.</p>
 <span class="nums">1 этаж <b>110,3</b> · 2 этаж <b>112,4</b> · всего <b>≈222,7 м²</b></span>
 <a class="btn" href="dom/v5-dvuskatnaya.html">Открыть</a>
 </div>

diff --git a/dom/README.md b/dom/README.md
@@ -8,7 +8,7 @@
 | `v2-vhod-sleva.html` | По эскизу. Размеры как в варианте 5, два полных этажа, двускатная крыша. Справа вдоль несущей стены кухня-столовая и гостиная. Слева бойлерная и санузел сзади, спальня, лестница, холл, тамбур и крыльцо спереди. Артефакт: https://claude.ai/artifact/3iNbKe61ds9eAX2H2THzCe |
 | `v3-kuhnya-gostinaya-u-vhoda.html` | Планировка варианта 4 (вход, кухня и гостиная слева; справа холл с лестницей, санузел, бойлерная, спальня и гостевая) с двумя полными этажами и двускатной крышей. Артефакт: https://claude.ai/artifact/2fQcV7woFJbdg7w1L99MuV |
 | `v4-shirina-10m.html` | Как вариант 3, но с 6,4 м от задней стены дом одной ступенькой расширяется к складу до 10 м (до склада везде 0,7 м). Кухня-столовая 31 м², крыша буквой Т. Спальня на первом этаже стала детской с дверью из гостиной. Артефакт: https://claude.ai/artifact/JNdo8EkxG9LTb8UJyd4uq7 |
-| `v5-dvuskatnaya.html` | Форма как в варианте 4. Вход справа: крыльцо в правом переднем углу под вторым этажом, за ним большая прихожая-холл без перегородок до лестницы, со шкафом, вешалкой и обувницей. Слева гостиная у фасада, за перегородкой с двумя раздвижными стеклянными створками кухня с островом и в узкой задней части столовая; справа лестница, санузел, бойлерная 4,5 м² и детская с раскладным диванчиком и дверью из столовой. На втором этаже четыре спальни, кабинета и балкона нет. В режиме «Только фундамент» виден весь участок без дома и все выпуски коммуникаций из плиты с кодами и привязками. Двускатная крыша с коньком над несущей стеной, второй этаж полумансардный, окна в левом скате. Артефакт: https://claude.ai/artifact/1E7rer6eFDHS2GWG5vcdFW |
+| `v5-dvuskatnaya.html` | Форма как в варианте 4. Вход справа: крыльцо в правом переднем углу под вторым этажом, за ним большая прихожая-холл без перегородок до лестницы, со шкафом, вешалкой и обувницей. Слева гостиная у фасада, за перегородкой с двумя раздвижными стеклянными створками кухня с островом и в узкой задней части столовая; справа лестница, санузел, бойлерная 4,5 м² и детская с раскладным диванчиком и дверью из столовой. На втором этаже четыре спальни, кабинета и балкона нет. Под кухней и столовой подвал 36,8 м² с входом из сада через приямок. В режиме «Только фундамент» виден весь участок без дома и все выпуски коммуникаций из плиты с кодами и привязками. Двускатная крыша с коньком над несущей стеной, второй этаж полумансардный, окна в левом скате. Артефакт: https://claude.ai/artifact/1E7rer6eFDHS2GWG5vcdFW |
 
 ## Сайт
 
